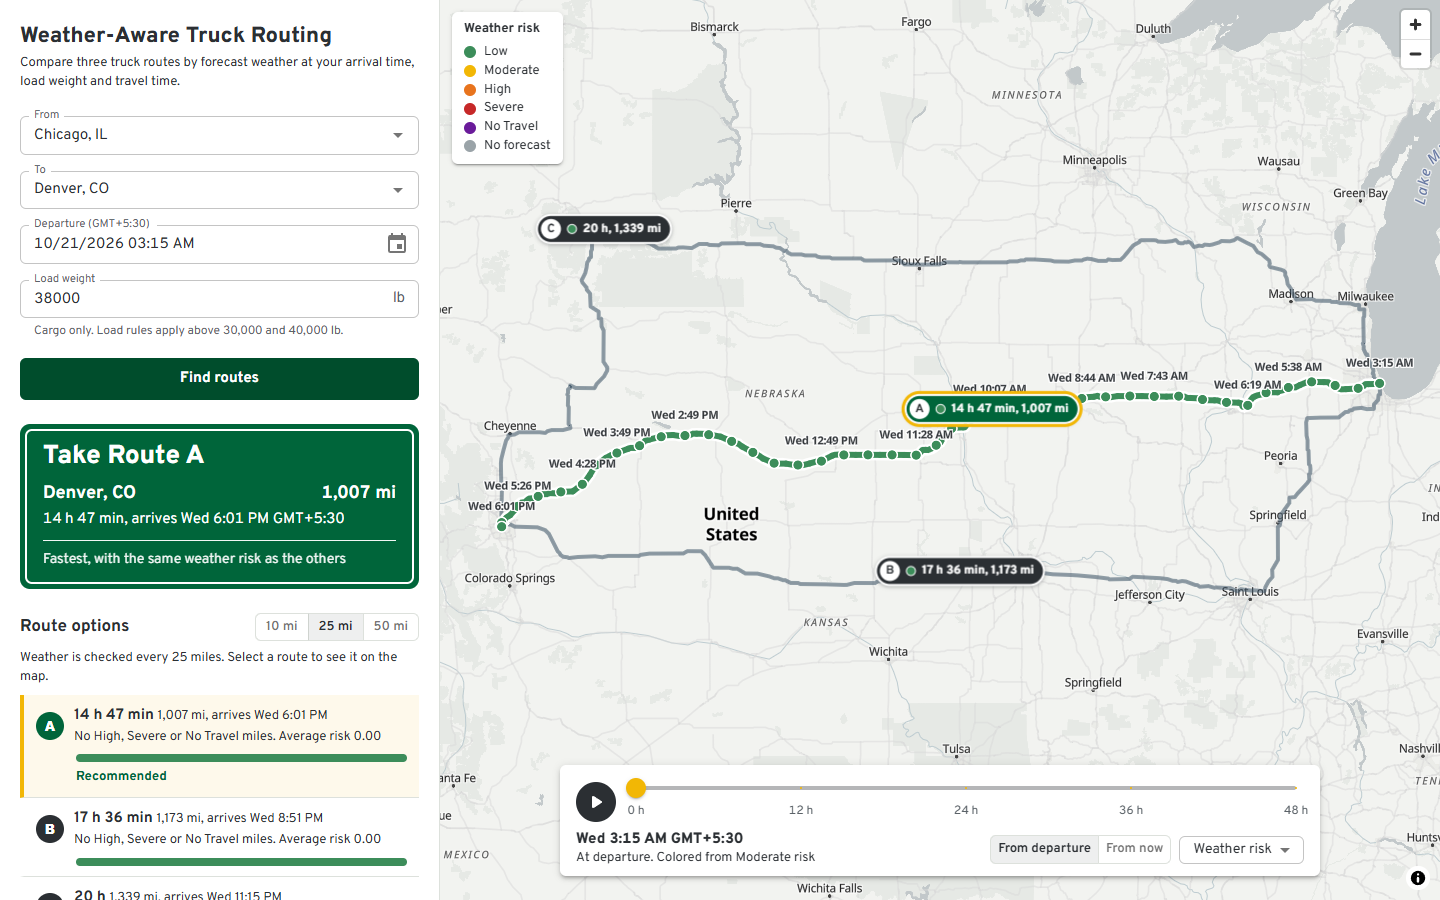
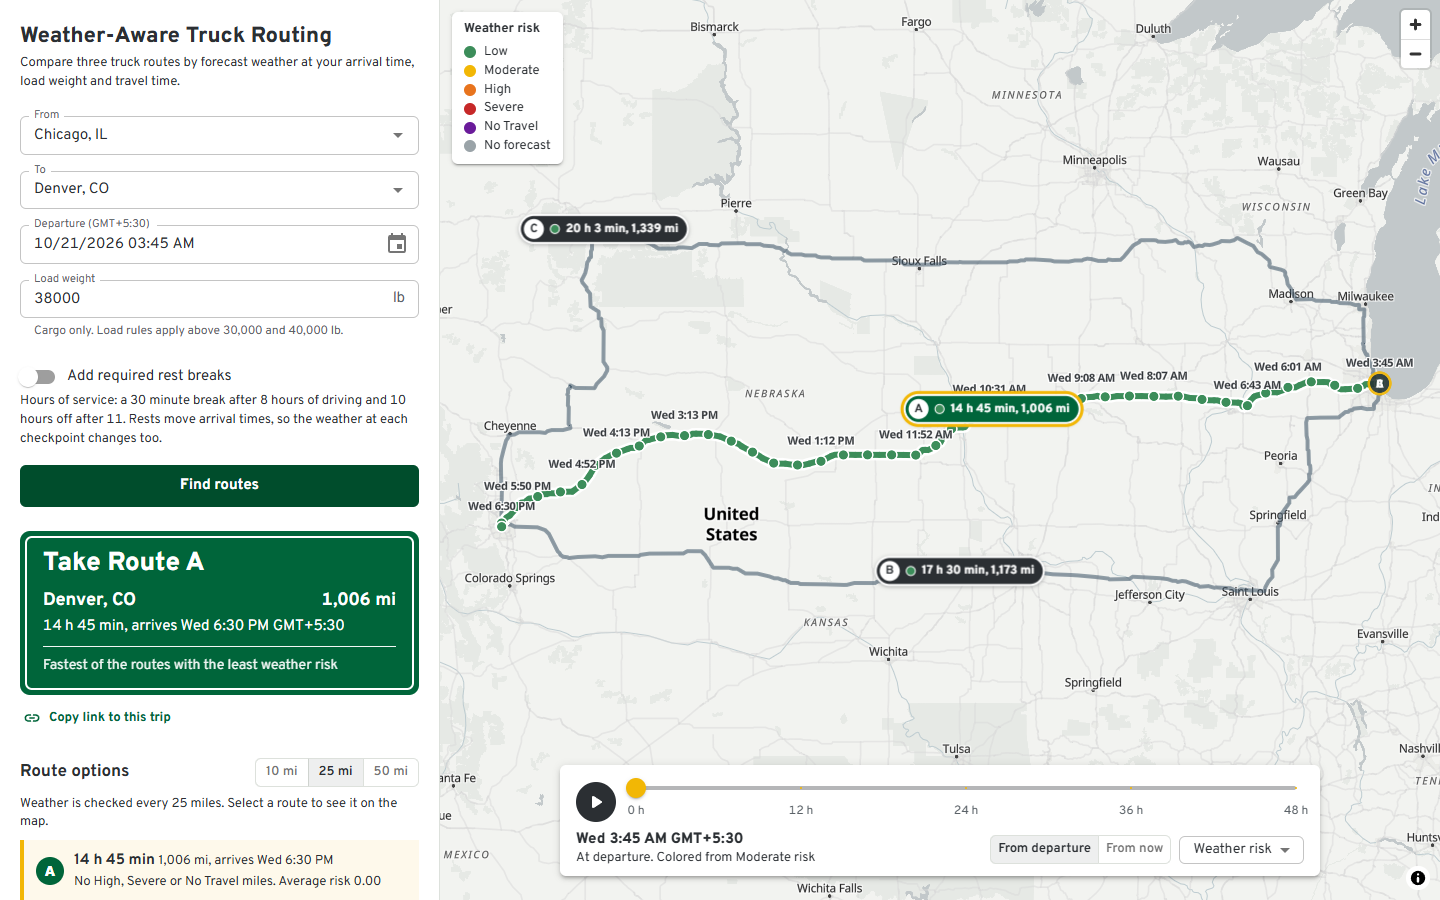
Refresh screenshots and add demo mode image

diff --git a/README.md b/README.md
@@ -6,6 +6,13 @@ Plan a truck trip and see which of three routes is safest to drive. The app chec
 
 ![Chicago to Denver: three truck routes, the recommended route as a guide sign, checkpoints with arrival times, and the forecast timeline](docs/images/app-desktop.png)
 
+<details>
+<summary>Demo mode: a simulated storm (labelled in the app) on the fastest route, with the recommendation moved to Route B</summary>
+
+![Demo mode with a simulated storm between Lincoln and Des Moines](docs/images/demo-storm.png)
+
+</details>
+
 ## What it does
 
 | The brief asks for | Where it is |
